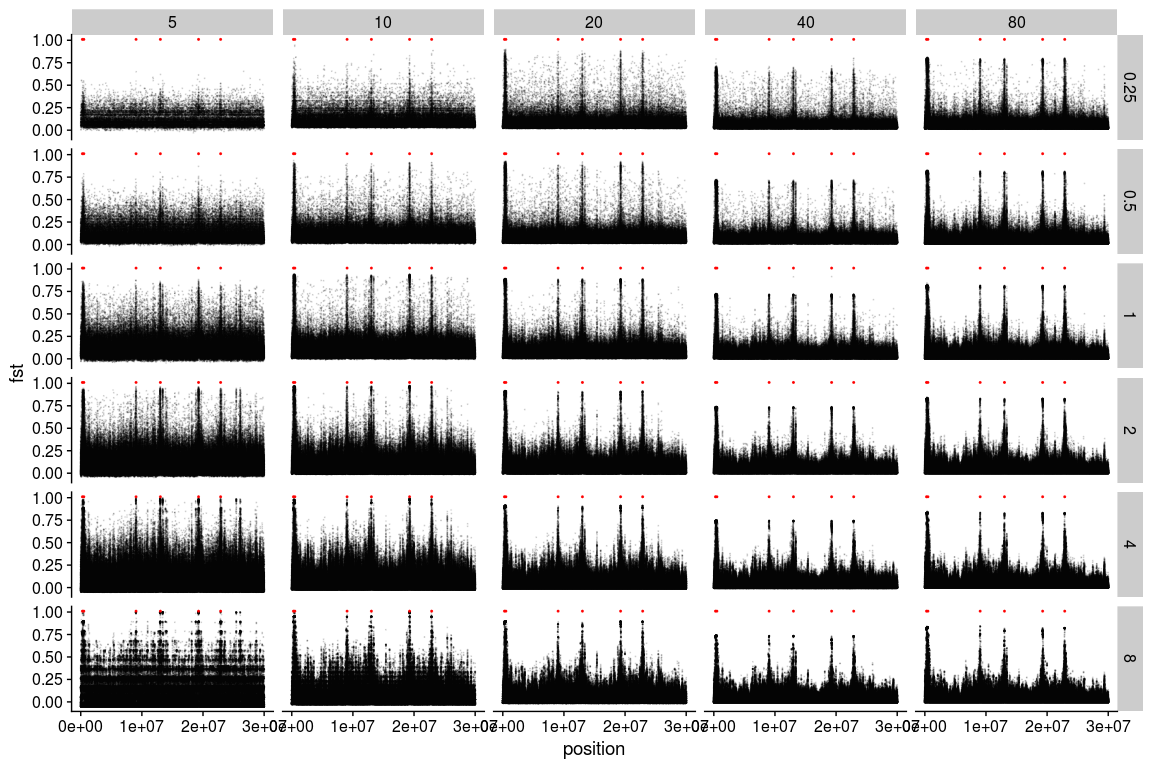
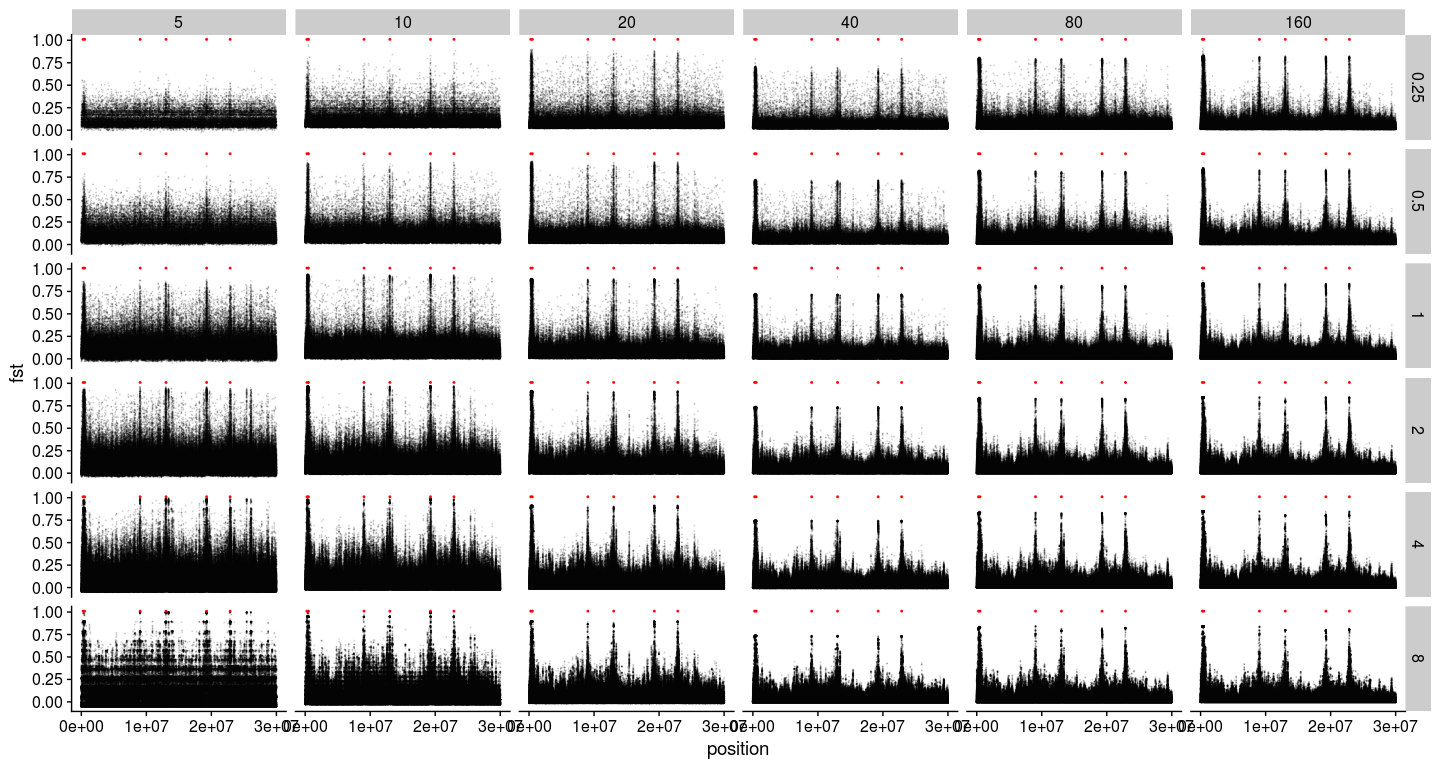
updated filtering and window length

Changed region(s): [[0.0, 0.0, 1.0, 1.0], [0.1875, 0.0, 0.25, 0.0625], [0.5938, 0.0, 0.625, 0.0625]]

diff --git a/markdowns/data_analysis_two_pop.md b/markdowns/data_analysis_two_pop.md
@@ -120,34 +120,34 @@ Read in read depth and estimated Fst
 ``` r
 i=1
 for (coverage in c(0.25,0.5,1,2,4,8)){
-  for (sample_size in c(5,10,20,40,80)){
+  for (sample_size in c(5,10,20,40,80,160)){
     ## read in estimated fst
     fst <- read_tsv(paste0("../two_pop_sim/rep_1/angsd/bam_list_", sample_size, "_", coverage, "x.fst"), col_names = F) %>%
       transmute(position=X2, alpha=X3, beta=X4, fst=X5, coverage=coverage, sample_size=sample_size)
     ## read per population depth
-    p1_depth <- read_tsv(paste0("../two_pop_sim/rep_1/angsd/bam_list_p1_", sample_size, "_", coverage, "x.pos.gz")) %>%
-      transmute(position=pos, p1_depth=totDepth)
-    p2_depth <- read_tsv(paste0("../two_pop_sim/rep_1/angsd/bam_list_p2_", sample_size, "_", coverage, "x.pos.gz")) %>%
-      transmute(position=pos, p2_depth=totDepth)
+    p1_n_ind <- read_tsv(paste0("../two_pop_sim/rep_1/angsd/bam_list_p1_", sample_size, "_", coverage, "x.mafs.gz")) %>%
+      transmute(position=position, p1_n_ind=nInd)
+    p2_n_ind <- read_tsv(paste0("../two_pop_sim/rep_1/angsd/bam_list_p2_", sample_size, "_", coverage, "x.mafs.gz")) %>%
+      transmute(position=position, p2_n_ind=nInd)
     ## join fst with depth_files
-    fst_depth <- left_join(fst, p1_depth, by="position") %>%
-      left_join(p2_depth, by="position")
+    fst_n_ind <- left_join(fst, p1_n_ind, by="position") %>%
+      left_join(p2_n_ind, by="position")
     ## compile the final files for plotting
     if (i==1){
-      fst_depth_final <- fst_depth
+      fst_n_ind_final <- fst_n_ind
     } else {
-      fst_depth_final <- bind_rows(fst_depth, fst_depth_final)
+      fst_n_ind_final <- bind_rows(fst_n_ind_final, fst_n_ind)
     }
     i=i+1
   }
 }
 ```
 
-Plot the estimated per-SNP Fst (with no depth filter)
------------------------------------------------------
+Plot the estimated per-SNP Fst (with no minimum individual filter)
+------------------------------------------------------------------
 
 ``` r
-ggplot(fst_depth_final, aes(x=position, y=fst)) +
+ggplot(fst_n_ind_final, aes(x=position, y=fst)) +
   geom_point(alpha=0.1, size=0.1) +
   geom_point(data=mutations_final_m2, aes(x=position, y=1.01), color="red", size=0.2, shape=8) +
   facet_grid(coverage~sample_size) +
@@ -156,11 +156,11 @@ ggplot(fst_depth_final, aes(x=position, y=fst)) +
 
 ![](data_analysis_two_pop_files/figure-markdown_github/unnamed-chunk-7-1.png)
 
-Plot the estimated per-SNP Fst (with minimum depth filter = 5)
---------------------------------------------------------------
+Plot the estimated per-SNP Fst (with minimum individual filter)
+---------------------------------------------------------------
 
 ``` r
-filter(fst_depth_final, p1_depth>=5, p2_depth>=5) %>%
+filter(fst_n_ind_final, p1_n_ind>=min(sample_size*coverage, sample_size), p2_n_ind>=min(sample_size*coverage, sample_size)) %>%
   ggplot(aes(x=position, y=fst)) +
     geom_point(alpha=0.1, size=0.1) +
     geom_point(data=mutations_final_m2, aes(x=position, y=1.01), color="red", size=0.2, shape=8) +
@@ -170,8 +170,8 @@ filter(fst_depth_final, p1_depth>=5, p2_depth>=5) %>%
 
 ![](data_analysis_two_pop_files/figure-markdown_github/unnamed-chunk-8-1.png)
 
-Compute and plot the estimated windowed Fst (with no depth filter and 1000bp fixed windows)
--------------------------------------------------------------------------------------------
+Compute and plot the estimated windowed Fst (with no minimum individual filter and 1,000bp fixed windows)
+---------------------------------------------------------------------------------------------------------
 
 ``` r
 fixed_windowed_fst <- function(x, window_length){
@@ -183,7 +183,7 @@ fixed_windowed_fst <- function(x, window_length){
     ungroup() %>%
     mutate(position=as.numeric(as.character(position)))
 }
-fixed_windowed_fst(fst_depth_final, 1000) %>%
+fixed_windowed_fst(fst_n_ind_final, 1000) %>%
   ggplot(aes(x=position, y=fst)) +
     geom_point(alpha=0.5, size=0.1) +
     geom_point(data=mutations_final_m2, aes(x=position, y=1.01), color="red", size=0.2, shape=8) +
@@ -192,3 +192,17 @@ fixed_windowed_fst(fst_depth_final, 1000) %>%
 ```
 
 ![](data_analysis_two_pop_files/figure-markdown_github/unnamed-chunk-9-1.png)
+
+Compute and plot the estimated windowed Fst (with no minimum individual filter and 10,000bp fixed windows)
+----------------------------------------------------------------------------------------------------------
+
+``` r
+fixed_windowed_fst(fst_n_ind_final, 10000) %>%
+  ggplot(aes(x=position, y=fst)) +
+    geom_point(alpha=0.5, size=0.1) +
+    geom_point(data=mutations_final_m2, aes(x=position, y=1.01), color="red", size=0.2, shape=8) +
+    facet_grid(coverage~sample_size) +
+    theme_cowplot()
+```
+
+![](data_analysis_two_pop_files/figure-markdown_github/unnamed-chunk-10-1.png)
